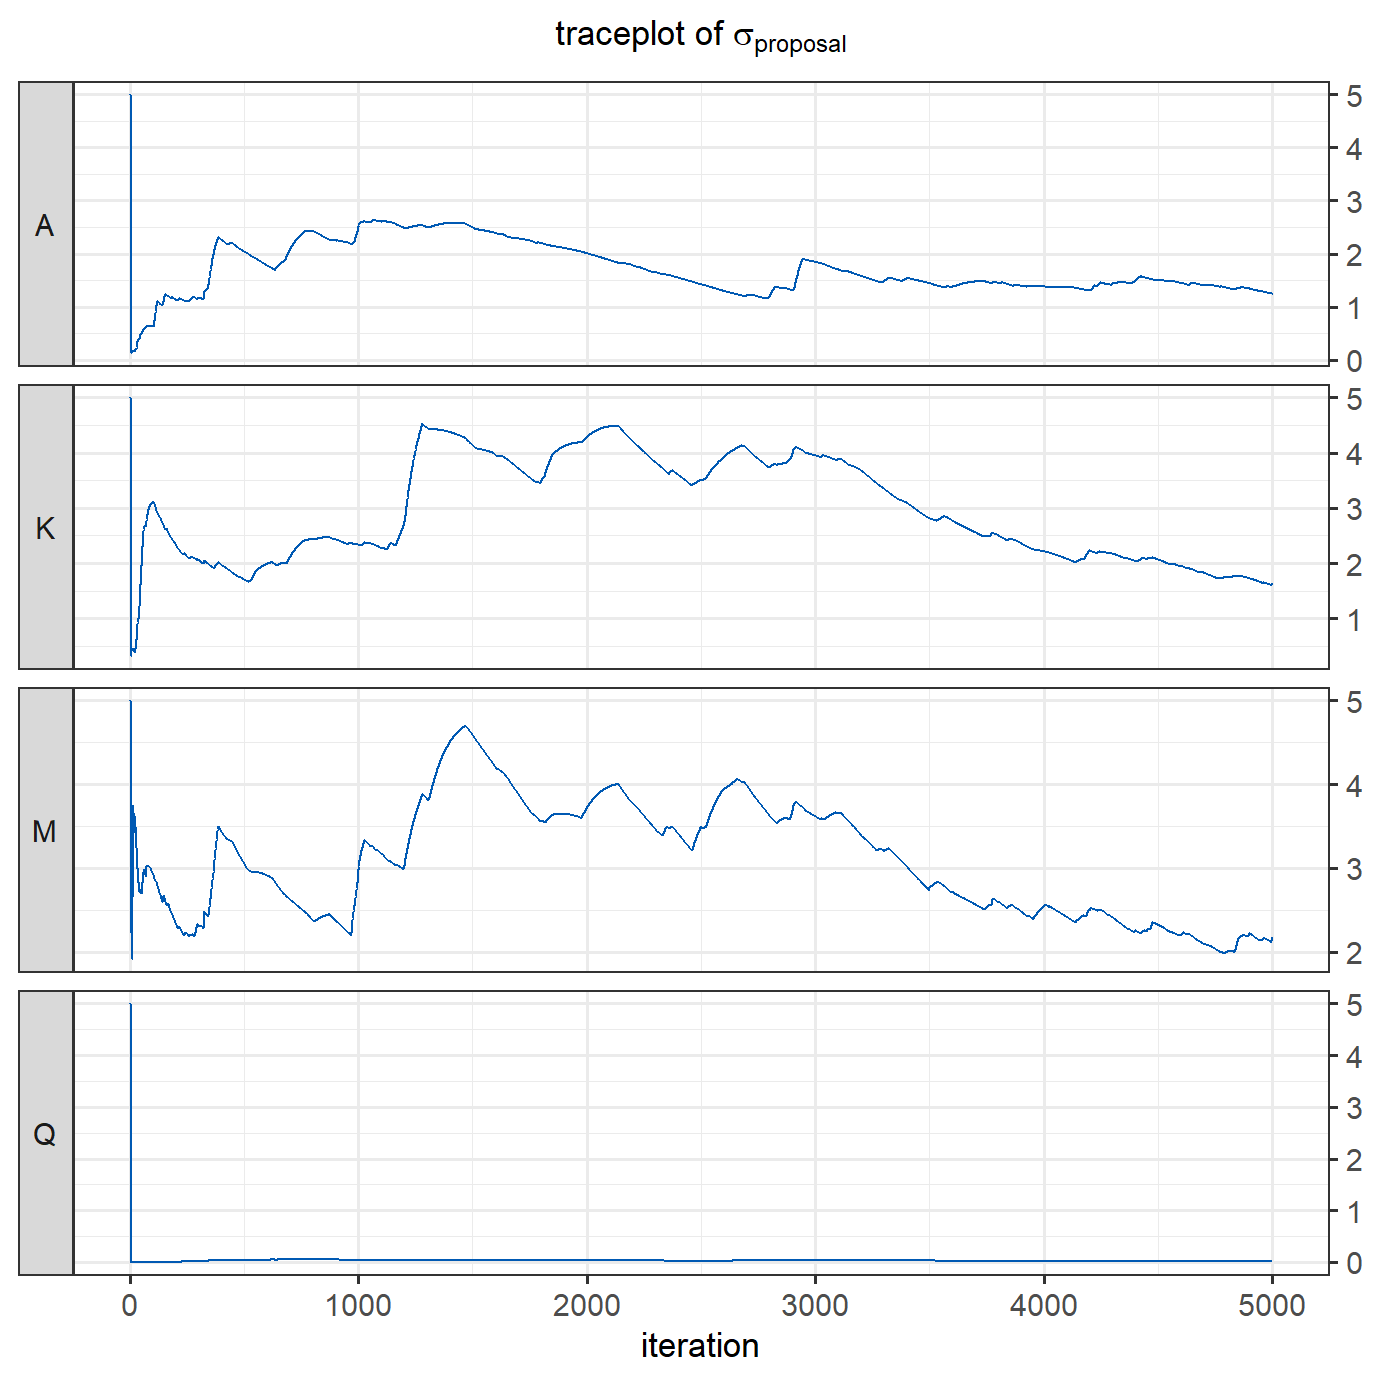
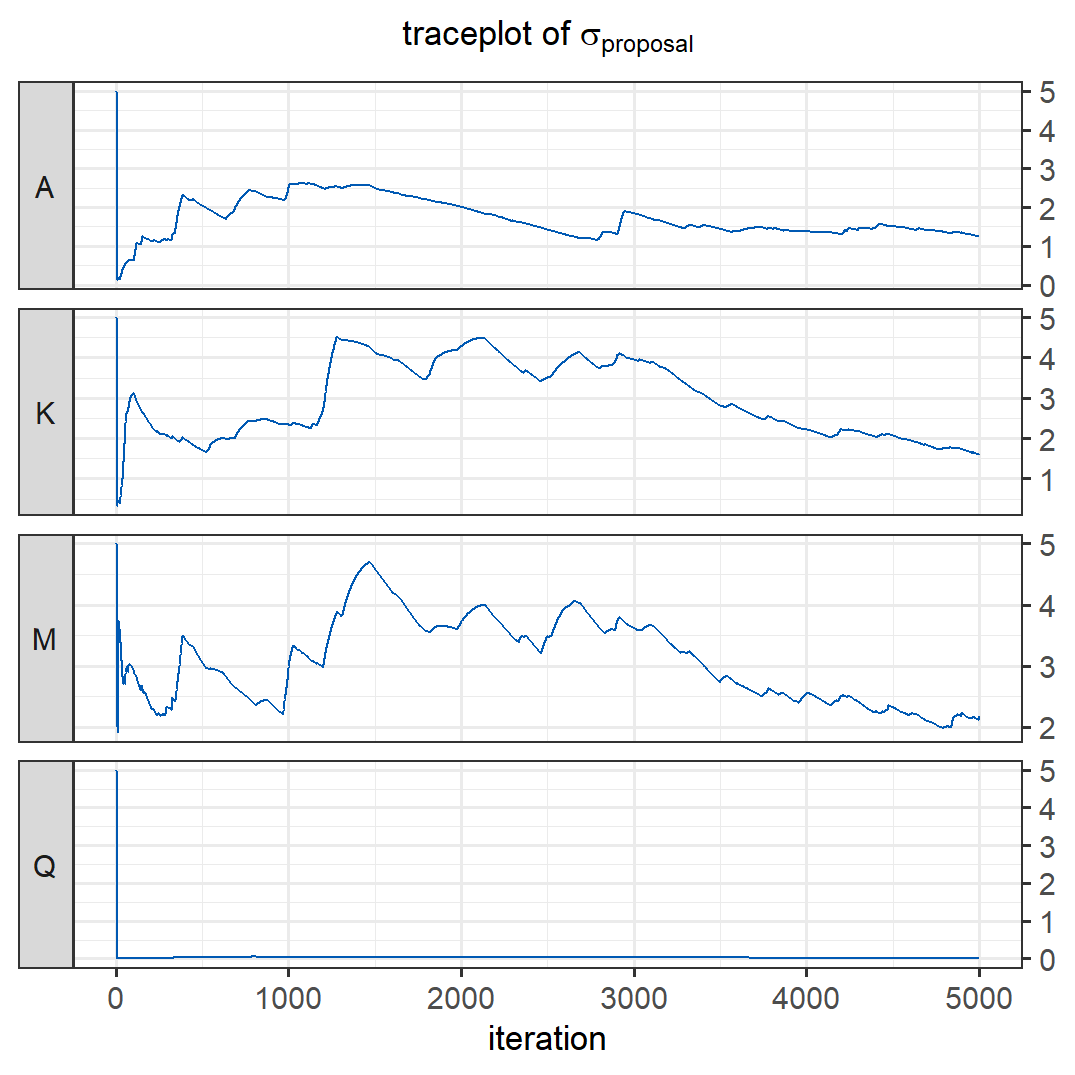
change fig size post 3

diff --git a/public/post/a-metropolis-algorithm-in-r-part-2-adaptive-proposals/index.html b/public/post/a-metropolis-algorithm-in-r-part-2-adaptive-proposals/index.html
@@ -691,26 +691,19 @@
 
 
 
-
-
-
-
-
-
-
+  
 
   
   
-
-
+  
 <div class="article-container pt-3">
   <h1>A Metropolis algorithm in R - Part 2: Adaptive proposals</h1>
 
   
 
- 
-
   
+ 
+    
 
 
 <div class="article-metadata">
@@ -751,20 +744,13 @@
 
 </div>
 
-  
-
-
-
-
-
-</div>
-
-
-<div class="article-header article-container featured-image-wrapper mt-4 mb-4" style="max-width: 618px; max-height: 656px;">
-  <div style="position: relative">
-    <img src="/post/a-metropolis-algorithm-in-r-part-2-adaptive-proposals/featured.PNG" alt="" class="featured-image">
     
-  </div>
+
+
+
+
+
+  
 </div>
 
 
@@ -892,11 +878,11 @@ print(system.time({m &lt;- run_MCMC(x = sample_data$x, y = sample_data$y,
                                  nIter = nIter, nAdapt = 5000, adaptation_decay =500,
                                  proposal_sd_init = c(5,5,5,5))}))</code></pre>
 <pre><code>##    user  system elapsed 
-##    4.26    0.67    4.94</code></pre>
+##    4.63    0.51    5.14</code></pre>
 <p>Looking at the traceplots, the MCMC runs well after an initial burn-in period, in which <span class="math inline">\(\sigma_{proposal}\)</span> was adjusted.
 <img src="/post/a-metropolis-algorithm-in-r-part-2-adaptive-proposals/index.en_files/figure-html/unnamed-chunk-7-1.png" width="691.2" />
 The traceplot below shows how the standard deviations of the proposals were adapted during the first <span class="math inline">\(5000\)</span> iterations. Despite a very bad initial guess for the <span class="math inline">\(\sigma_{proposal}\)</span> of <span class="math inline">\(Q\)</span>, the adaptive algorithm managed to quickly find smaller, better values, resulting in reasonably good behaviour of the Markov chains of the parameters shown above. The effective sample size after adaptation is <span class="math inline">\(3720\)</span>, which is <span class="math inline">\(52\%\)</span> higher than the effective sample size obtained with the same number of iterations in the <a href="/post/a-metropolis-algorithm-in-r-part-1-implementation">previous version</a> of this model, where we tried to guess good values for <span class="math inline">\(\sigma_{proposal}\)</span>.
-<img src="/post/a-metropolis-algorithm-in-r-part-2-adaptive-proposals/index.en_files/figure-html/unnamed-chunk-8-1.png" width="691.2" />
+<img src="/post/a-metropolis-algorithm-in-r-part-2-adaptive-proposals/index.en_files/figure-html/unnamed-chunk-8-1.png" width="537.6" />
 Checking the acceptance rate shows that it is somewhat low even after the adaptation, at <strong>0.16</strong>. In multi-dimensional models, a good acceptance rate would be around <span class="math inline">\(0.25\)</span> <a href="https://projecteuclid.org/journals/annals-of-applied-probability/volume-7/issue-1/Weak-convergence-and-optimal-scaling-of-random-walk-Metropolis-algorithms/10.1214/aoap/1034625254.full">(Gelman et al. 1997)</a>. To further improve this algorithm and achieve more efficient sampling at a higher acceptance rate, we could use multivariate proposals that account for the correlation of parameters (see e.g. <a href="https://www.jstor.org/stable/3318737?seq=1#metadata_info_tab_contents">Haario et al. 2001</a>).</p>
 <p>You can find the full R code to reproduce all analyses and figures on <a href="https://github.com/KEichenseer/Methods/blob/main/Adaptive_Metropolis-Hastings.R">Github</a>.</p>
 

diff --git a/content/post/2022-03-26-a-metropolis-algorithm-in-r-part-2-adaptive-proposal-standard-deviation/index.en.html b/content/post/2022-03-26-a-metropolis-algorithm-in-r-part-2-adaptive-proposal-standard-deviation/index.en.html
@@ -138,10 +138,10 @@ print(system.time({m &lt;- run_MCMC(x = sample_data$x, y = sample_data$y,
                                  nIter = nIter, nAdapt = 5000, adaptation_decay =500,
                                  proposal_sd_init = c(5,5,5,5))}))</code></pre>
 <pre><code>##    user  system elapsed 
-##    4.56    0.52    5.08</code></pre>
+##    4.63    0.51    5.14</code></pre>
 <p>Looking at the traceplots, the MCMC runs well after an initial burn-in period, in which <span class="math inline">\(\sigma_{proposal}\)</span> was adjusted.
 <img src="{{< blogdown/postref >}}index.en_files/figure-html/unnamed-chunk-7-1.png" width="691.2" />
 The traceplot below shows how the standard deviations of the proposals were adapted during the first <span class="math inline">\(5000\)</span> iterations. Despite a very bad initial guess for the <span class="math inline">\(\sigma_{proposal}\)</span> of <span class="math inline">\(Q\)</span>, the adaptive algorithm managed to quickly find smaller, better values, resulting in reasonably good behaviour of the Markov chains of the parameters shown above. The effective sample size after adaptation is <span class="math inline">\(3720\)</span>, which is <span class="math inline">\(52\%\)</span> higher than the effective sample size obtained with the same number of iterations in the <a href="/post/a-metropolis-algorithm-in-r-part-1-implementation">previous version</a> of this model, where we tried to guess good values for <span class="math inline">\(\sigma_{proposal}\)</span>.
-<img src="{{< blogdown/postref >}}index.en_files/figure-html/unnamed-chunk-8-1.png" width="691.2" />
+<img src="{{< blogdown/postref >}}index.en_files/figure-html/unnamed-chunk-8-1.png" width="537.6" />
 Checking the acceptance rate shows that it is somewhat low even after the adaptation, at <strong>0.16</strong>. In multi-dimensional models, a good acceptance rate would be around <span class="math inline">\(0.25\)</span> <a href="https://projecteuclid.org/journals/annals-of-applied-probability/volume-7/issue-1/Weak-convergence-and-optimal-scaling-of-random-walk-Metropolis-algorithms/10.1214/aoap/1034625254.full">(Gelman et al. 1997)</a>. To further improve this algorithm and achieve more efficient sampling at a higher acceptance rate, we could use multivariate proposals that account for the correlation of parameters (see e.g. <a href="https://www.jstor.org/stable/3318737?seq=1#metadata_info_tab_contents">Haario et al. 2001</a>).</p>
 <p>You can find the full R code to reproduce all analyses and figures on <a href="https://github.com/KEichenseer/Methods/blob/main/Adaptive_Metropolis-Hastings.R">Github</a>.</p>
